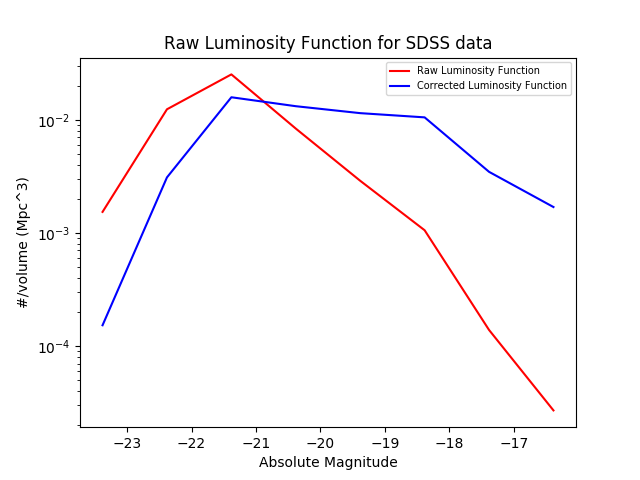
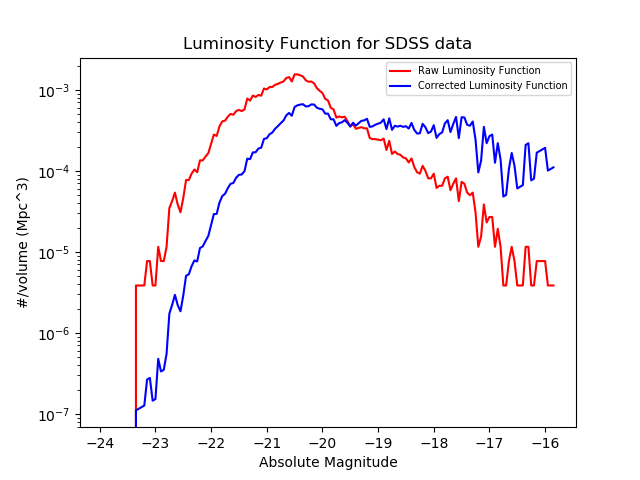
fixing bins, partially functional. set stesPerMag to 1 for original plots

diff --git a/termproject.py b/termproject.py
@@ -14,6 +14,7 @@ maxR = (c * zmax) / H0
 limMag = 17.6
 h = 3.0/Mega # Mpc
 colorDifference = 1.565
+stepsPerMag = 20
 
 hdulist = fits.open("sdss.fits")
 
@@ -106,6 +107,7 @@ def absMags(dists, mags):
 # dists is a list of distance
 # mags is a list of apparent magnitude
 def sortAbsMags(dists, mags):
+	print("sort abs mags")
 	red = []
 	blue = []
 	j = 0
@@ -119,21 +121,25 @@ def sortAbsMags(dists, mags):
 	return red, blue
 
 
-# separate absolute magnitudes into bins
-def distributeMagnitudes(mags, length, minV):
-	magBins = np.zeros(length + 1)
-	for mag in mags:
-		magBins[math.floor(mag) + minV] += 1
-	return magBins
+# # separate absolute magnitudes into bins
+# def distributeMagnitudes(mags, length, maxM, minM, bins):
+# 	print("dist mags")
+# 	magBins = np.zeros(bins)
+# 	magRange = maxM - minM
+# 	binSize = magRange/bins
+# 	for mag in mags:
+# 		magDif = mag-minM
+# 		magBins[math.floor(magDif/binSize)] += 1
+# 	return magBins
 
 
 def effectiveVolume(mags):
-	print("m", mags)
+	print("effective vol")
 	effectiveVols = []
 	Vmaxs = []
 	for y in range(len(mags)):
 		dmax = pow(10, (limMag - mags[y] + 5)/5)
-		dmax = dmax / Mega
+		dmax = dmax / Mega # convert to Mpc
 		x = dmax/h
 		Omega = 1.e6 #scalar to shift the graph
 		effV = Omega * (h**3) * ((.5 * pow(x,2)) + ((x + 1)*math.exp(-1 * x)) - 1)
@@ -144,6 +150,7 @@ def effectiveVolume(mags):
 	return effectiveVols, Vmaxs
 
 def calcVratios(Veffs, Vmaxs):
+	print("vratios")
 	result = []
 	for i in range(len(Veffs)):
 		result.append(Veffs[i]/Vmaxs[i])
@@ -162,9 +169,10 @@ def allGalaxiesPlot(x, lumFunc, correctedLumFunc):
 
 # corrected luminosity function plots for all galaxies, red and blue separate
 def redBluePlot(x, correctedLumFunc, x1, redLumFunc, x2, blueLumFunc):
-	plt.plot(x, correctedLumFunc, "g", label="Corrected Luminosity Function for all Galaxies")
+	print("redblue")
 	plt.plot(x1, redLumFunc, "r", label="Corrected Luminosity Function for Red Galaxies")
 	plt.plot(x2, blueLumFunc, "b", label="Corrected Luminosity Function for Blue Galaxies")
+	plt.plot(x, correctedLumFunc, "g", label="Corrected Luminosity Function for all Galaxies")
 	plt.legend(prop={'size': 7})
 	plt.yscale('log')
 	plt.xlabel("Absolute Magnitude")
@@ -174,13 +182,14 @@ def redBluePlot(x, correctedLumFunc, x1, redLumFunc, x2, blueLumFunc):
 
 #schecter function
 def schecter(M):
+	print("schecter")
 	alpha = -1.13
 	Mstar = -20.8
 
 	result = []
 	for m in M:
 		part1 = pow(10, -0.4 * (alpha + 1) * m)
-		print(m)
+		# print(m)
 		power = -10**(0.4 * (Mstar - m))
 		part2 = math.exp(power)
 		result.append(part1 * part2)
@@ -188,10 +197,10 @@ def schecter(M):
 
 # schecter function over correct luminosity functions
 def redBluePlotSchecter(x, correctedLumFunc, x1, redLumFunc, x2, blueLumFunc):
-
-	plt.plot(x, correctedLumFunc, "g", label="Corrected Luminosity Function for all Galaxies")
+	print("redblue schecter")
 	plt.plot(x1, redLumFunc, "r", label="Corrected Luminosity Function for Red Galaxies")
 	plt.plot(x2, blueLumFunc, "b", label="Corrected Luminosity Function for Blue Galaxies")
+	plt.plot(x, correctedLumFunc, "g", label="Corrected Luminosity Function for all Galaxies")
 	plt.plot(x, schecter(x), "y", label="Schecter Function")
 	plt.legend(prop={'size': 7})
 	plt.yscale('log')
@@ -202,57 +211,114 @@ def redBluePlotSchecter(x, correctedLumFunc, x1, redLumFunc, x2, blueLumFunc):
 
 # malmquist bias correction
 # returns correct luminosity function
-def malmquistCorrection(absoluteMags, magBins):
-	absMagnitudesList = []
-	absMagsRange = range(math.floor(max(absoluteMags)), math.floor(min(absoluteMags)), -1)
-	for i in absMagsRange:
-		absMagnitudesList.insert(0, i)
-	
-	effectiveVols, Vmaxs = effectiveVolume(absMagnitudesList)
+def malmquistCorrection(magHist, magBins):
+	print("malmquist")
+	effectiveVols, Vmaxs = effectiveVolume(magBins-1)
 	Vratios = calcVratios(effectiveVols, Vmaxs)
 	
 	correctedLumFunc = []
-	for x in range(len(magBins)):
-		correctedLumFunc.append(magBins[x]/effectiveVols[x])
+	for x in range(len(magHist)):
+		correctedLumFunc.append(magHist[x]/effectiveVols[x])
 
 	return correctedLumFunc
 
 # raw and corrected luminosity functions
 def luminosityFunction():
+	print("luminosity")
 	distances = redshiftDistance(zData)
 	absoluteMags = absMags(distances, rData)
-
+	print(max(absoluteMags),min(absoluteMags))
+	dif = max(absoluteMags)-min(absoluteMags)
+	bins = np.arange(math.floor(min(absoluteMags)),math.ceil(max(absoluteMags)),1/stepsPerMag)
+	print(bins)
 	#need volume to get number density (#/volume in each bin)
-	magBins = distributeMagnitudes(absoluteMags, math.floor(max(absoluteMags) - min(absoluteMags)), abs(math.floor(min(absoluteMags))) - 1)
-	
+	magHist, magBins, magPatches = plt.hist(absoluteMags, bins, histtype='step')
+	# magBins = distributeMagnitudes(absoluteMags, math.floor(max(absoluteMags) - min(absoluteMags)), 
+							# math.ceil(max(absoluteMags)), math.floor(min(absoluteMags)), len(absoluteMags)*3)
+	plt.clf()
+	trailingZeroes = 0
+	for x in range(len(magHist)-1,0,-1):
+		if magHist[x] == 0.:
+			trailingZeroes += 1
+		else:
+			break
+	print("mag trail: ", trailingZeroes)
+	for x in range(1,len(magHist)-trailingZeroes):
+		if magHist[x] == 0.:
+			magHist[x] = magHist[x-1]
+
+	magBins = np.delete(magBins, 0)
+	magHist = magHist[0:len(magHist)-trailingZeroes]
+	magBins = magBins[0:len(magBins)-trailingZeroes]
+	print("maghistlen", len(magHist))
+	# print("rdata len: " + str(len(rData)), "magHist len: " + str(len(magHist)), "magBins len: " + str(len(magBins)))
+	print(len(magHist), magHist, "\n", len(magBins), magBins)
 	#solid angle * r^3
 	vol = pow(maxR,3) * solidAngle #mpc^3
-	lumFunc = [x / vol for x in magBins]
-
+	lumFunc = [x / vol for x in magHist]
 	#correct malmquist bias
-	correctedLumFunc = malmquistCorrection(absoluteMags, magBins)
+	correctedLumFunc = malmquistCorrection(magHist, magBins)
 	
-	x = np.arange(min(absoluteMags), max(absoluteMags), 1)
+	# x = np.arange(min(absoluteMags), max(absoluteMags)-(magBins[1]-magBins[0])*1, magBins[1]-magBins[0])
 
 	#plot for all galaxies
-	#allGalaxiesPlot(x, lumFunc, correctedLumFunc)
-
+	allGalaxiesPlot(magBins, lumFunc, correctedLumFunc)
 	#separated by red and blue galaxies
 	redMags, blueMags = sortAbsMags(distances, rData)
-	redBins = distributeMagnitudes(redMags, math.floor(max(redMags) - min(redMags)), abs(math.floor(min(redMags))) - 1)
-	blueBins = distributeMagnitudes(blueMags, math.floor(max(blueMags) - min(blueMags)), abs(math.floor(min(blueMags))) - 1)
-	
-	redLumFunc = malmquistCorrection(redMags, redBins)
-	blueLumFunc = malmquistCorrection(blueMags, blueBins)
 
-	x1 = np.arange(min(redMags), max(redMags), 1)
-	x2 = np.arange(min(blueMags), max(blueMags), 1)
+	rbins = np.arange(math.floor(min(redMags)),math.ceil(max(redMags)),1/stepsPerMag)
+	bbins = np.arange(math.floor(min(blueMags)),math.ceil(max(blueMags)),1/stepsPerMag)
+	
+	redHist, redBins, redPatches = plt.hist(redMags, rbins, histtype="step")
+	blueHist, blueBins, bluePatches = plt.hist(blueMags, bbins, histtype="step")
+	redBins = np.delete(redBins, 0)
+	blueBins = np.delete(blueBins, 0)
+	redHist = redHist[0:len(redHist)-trailingZeroes]
+	redBins = redBins[0:len(redBins)-trailingZeroes]
+	blueHist = blueHist[0:len(blueHist)-trailingZeroes]
+	blueBins = blueBins[0:len(blueBins)-trailingZeroes]
+	print(len(redHist), redHist, "\n")#, len(redBins), redBins)
+	print(len(blueHist), blueHist,"\n")#, len(blueBins), blueBins)
+	plt.clf()
+	# redBins = distributeMagnitudes(redMags, math.floor(max(redMags) - min(redMags)), 
+					# math.ceil(max(redMags)), math.floor(min(redMags)), len(redMags)*3)
+	# blueBins = distributeMagnitudes(blueMags, math.floor(max(blueMags) - min(blueMags)), 
+					# math.ceil(max(blueMags)), math.floor(min(blueMags)), len(blueMags)*3)
+	
+	trailingZeroes = 0
+	for x in range(len(redHist)-1,0,-1):
+		if redHist[x] == 0.:
+			trailingZeroes += 1
+		else:
+			break
+	print("red trail: ", trailingZeroes)
+	for x in range(1,len(redHist)-trailingZeroes):
+		if redHist[x] == 0.:
+			redHist[x] = redHist[x-1]
+
+	trailingZeroes = 0
+	for x in range(len(blueHist)-1,0,-1):
+		if blueHist[x] == 0.:
+			trailingZeroes += 1
+		else:
+			break
+	print("blue trail: ", trailingZeroes)
+	for x in range(1,len(blueHist)-trailingZeroes):
+		if blueHist[x] == 0.:
+			blueHist[x] = blueHist[x-1]
+	redLumFunc = malmquistCorrection(redHist, redBins)
+	blueLumFunc = malmquistCorrection(blueHist, blueBins)
+
+	# x1 = np.arange(min(redMags), max(redMags)-(redBins[1]-redBins[0])+.01, redBins[1]-redBins[0])
+	# x2 = np.arange(min(blueMags), max(blueMags)-(blueBins[1]-blueBins[0])+.01, blueBins[1]-blueBins[0])
+	x1 = np.arange(math.floor(min(redMags)),math.ceil(max(redMags)),1/4)
+	x2 = np.arange(math.floor(min(blueMags)),math.ceil(max(blueMags)),1/4)
 
 	#plot for red, blue, all
-	#redBluePlot(x, correctedLumFunc, x1, redLumFunc, x2, blueLumFunc)
+	redBluePlot(magBins, correctedLumFunc, redBins, redLumFunc, blueBins, blueLumFunc)
 
 	#plot for red, blue, all, schecter
-	redBluePlotSchecter(x, correctedLumFunc, x1, redLumFunc, x2, blueLumFunc)
+	redBluePlotSchecter(magBins, correctedLumFunc, redBins, redLumFunc, blueBins, blueLumFunc)
 	
 luminosityFunction()
 #ugDistPlot()
